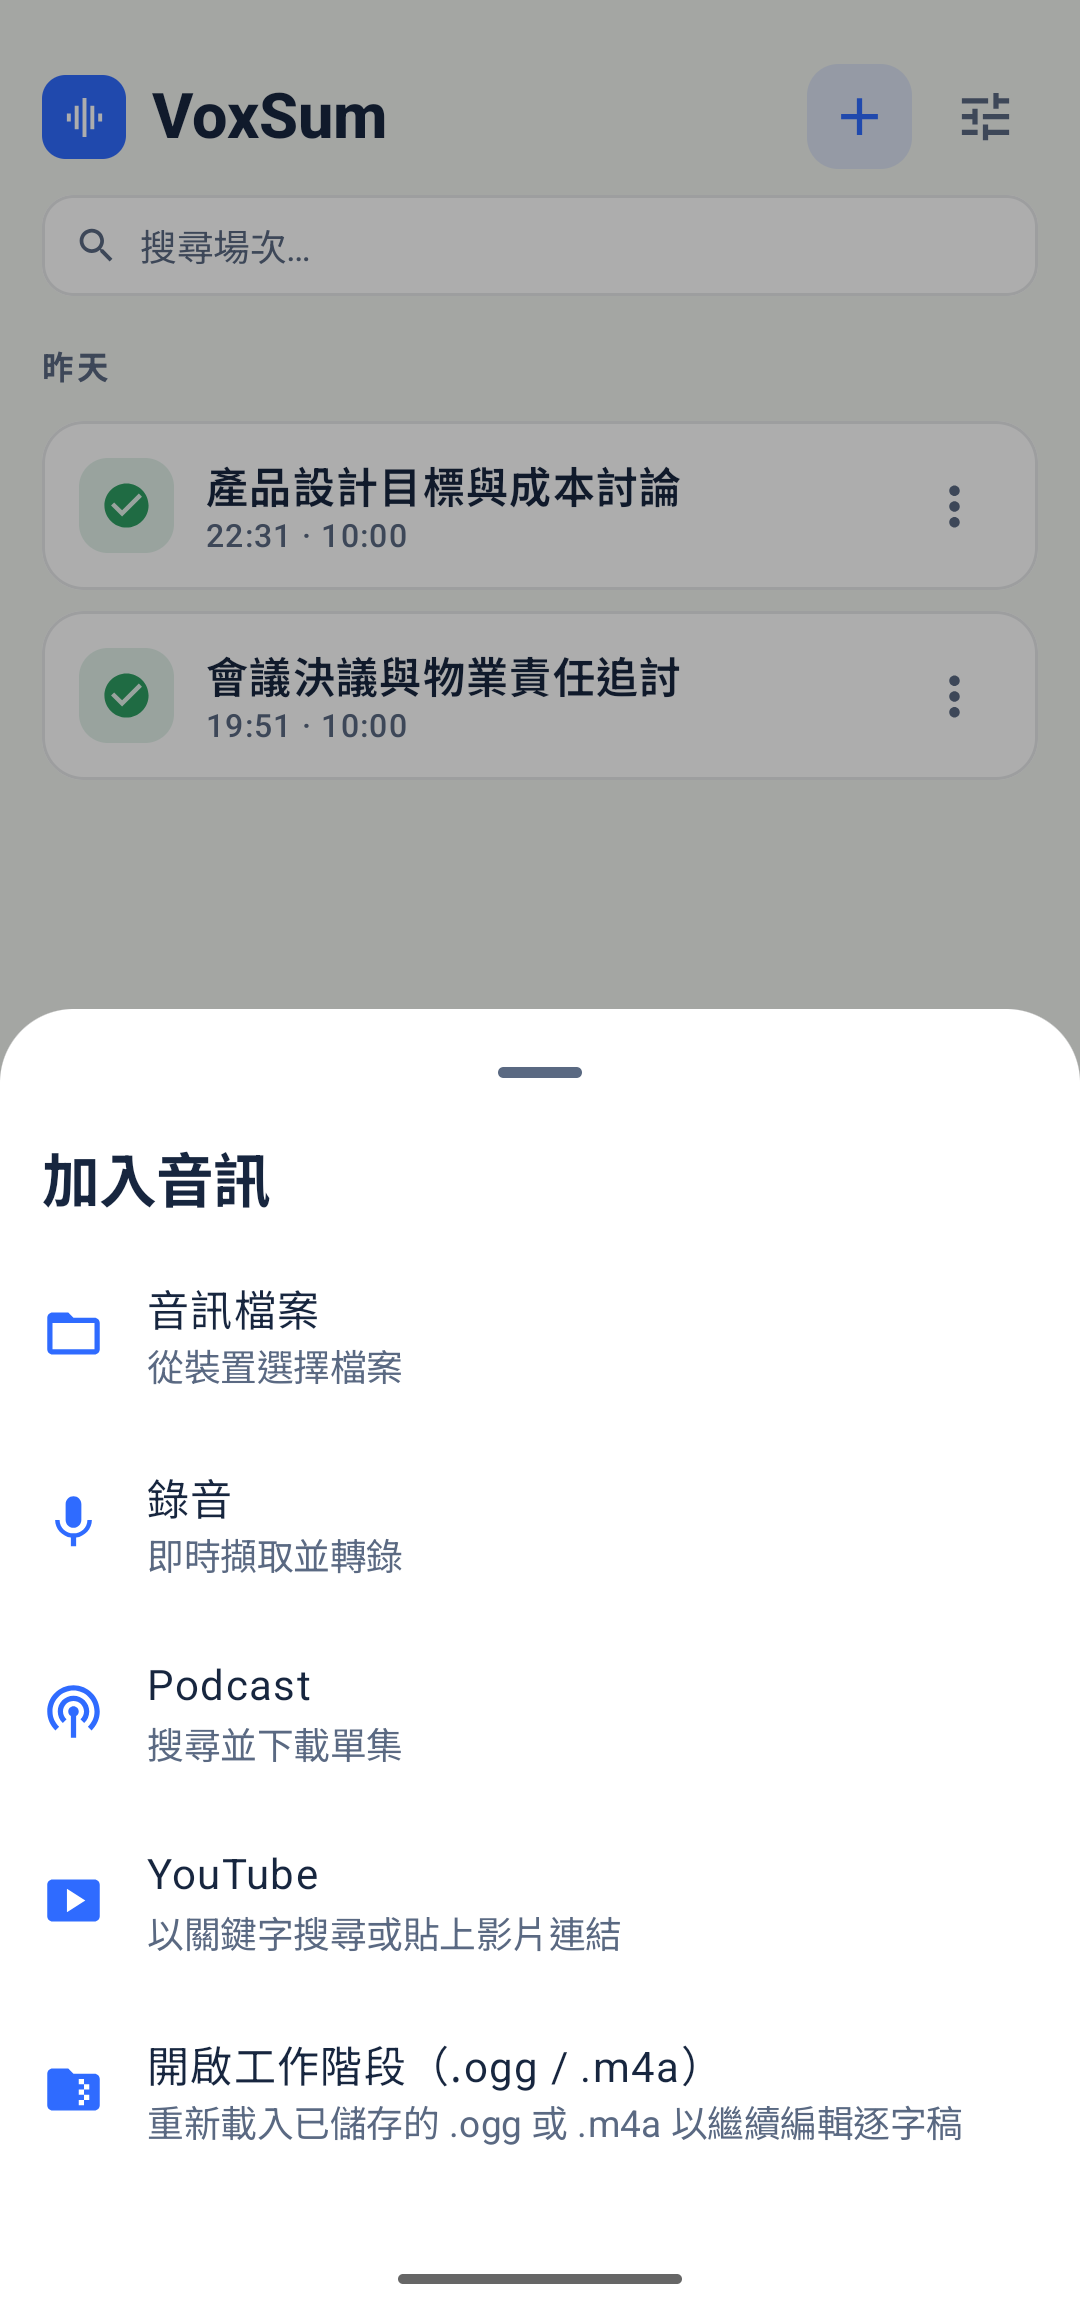
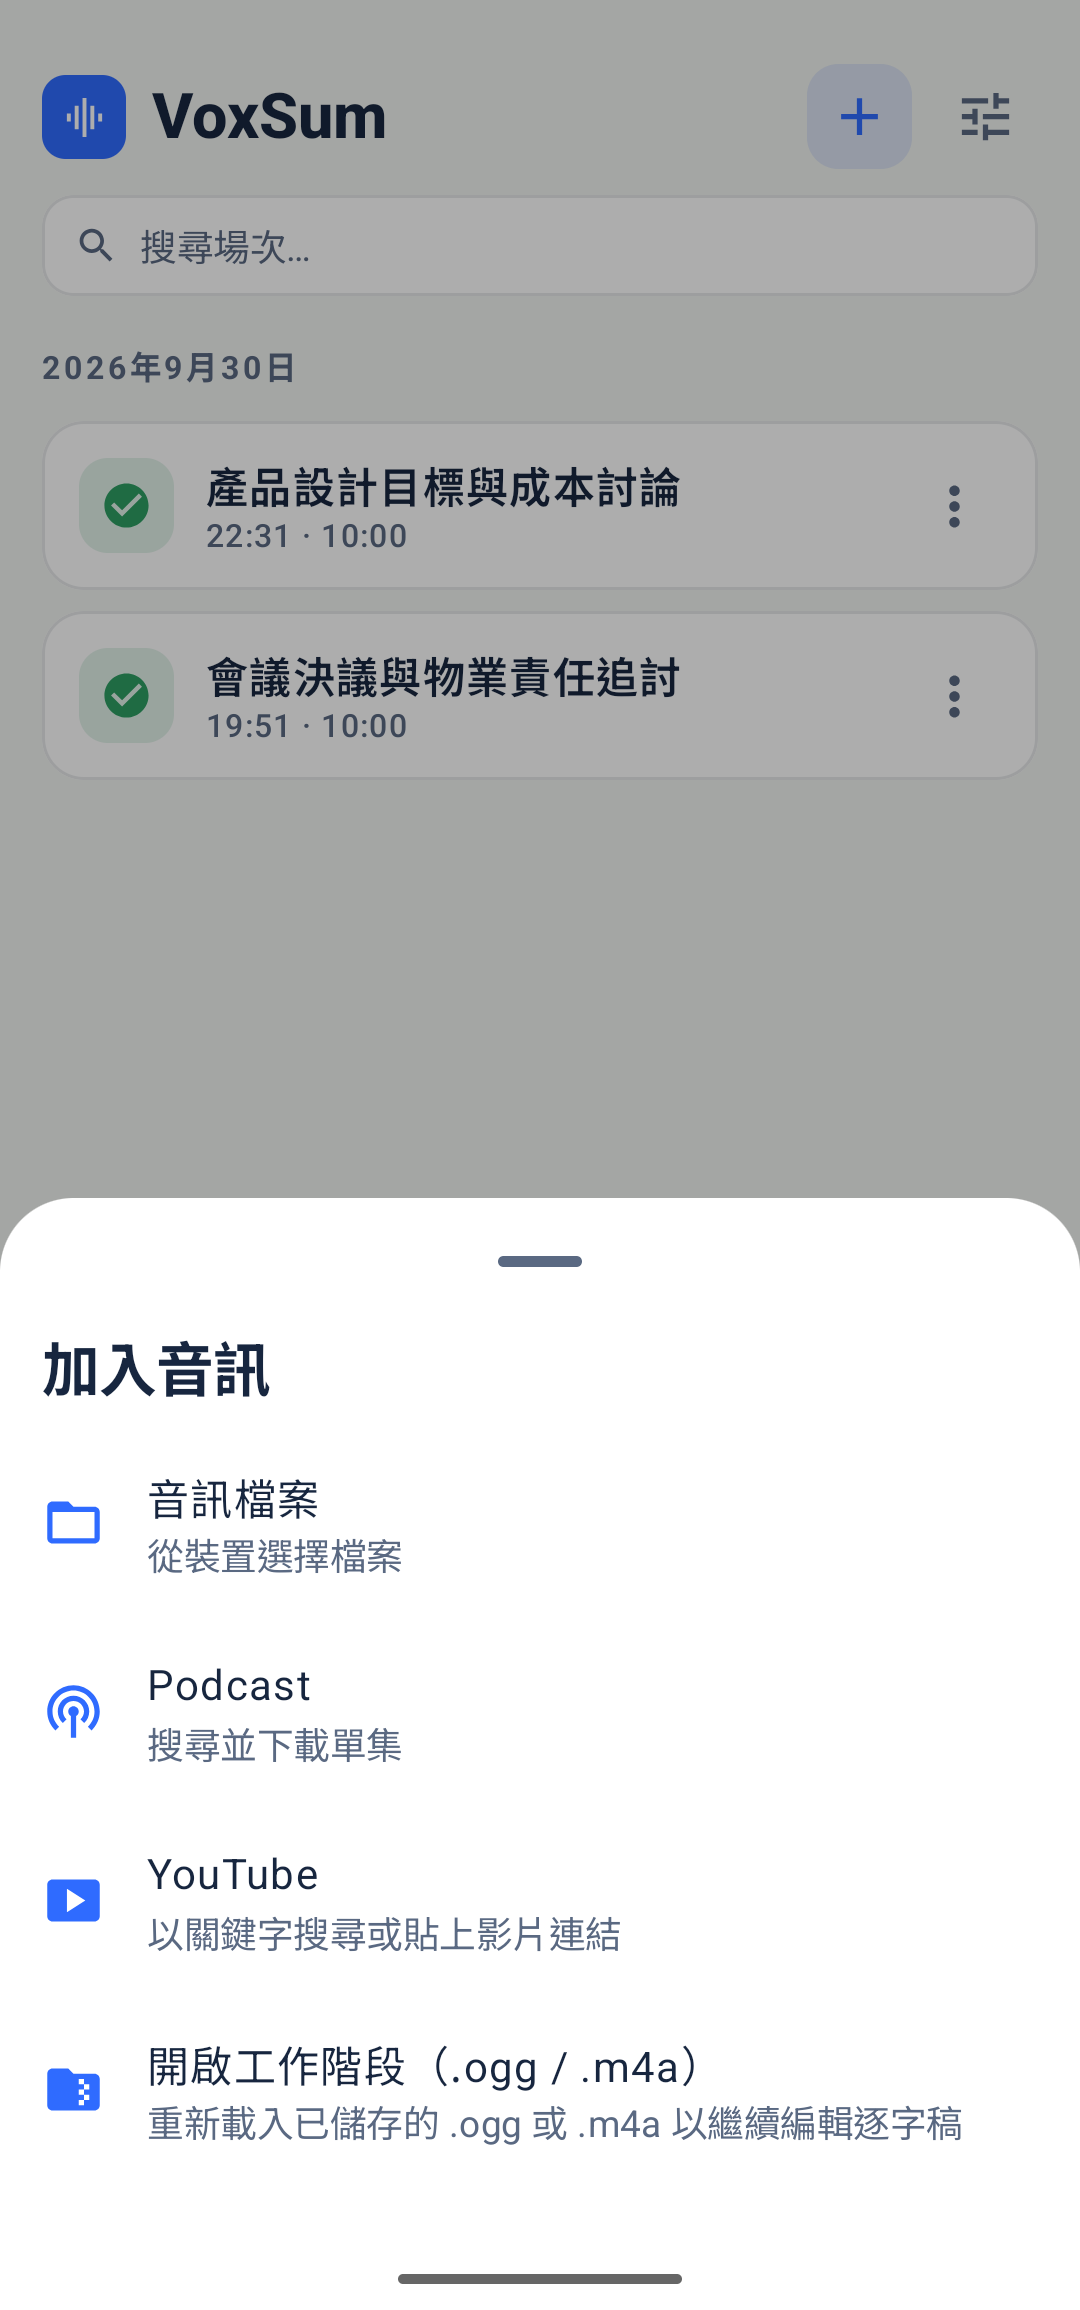
docs: README usage follows the meeting: record → agent → summary → transcript → export → reprocess → settings, imports last as the non-live case; reshoot the import sheet without Record
Claude-Session: https://claude.ai/code/session_01NQVZs7ju6UZUEeaeEiKgfe

diff --git a/README.md b/README.md
@@ -32,7 +32,7 @@
 
 <p align="center"><img src="docs/screenshots/qs-capture.png" width="280" alt="錄音室"></p>
 
-逐字稿即時出現；語者確定後，每句左側會有該語者的顏色與時間，尚未確定的句子為淺灰。上方的會議代理卡片顯示它正在聆聽或撰寫，以及距離下一次閱讀的進度。**下一場**存檔並立刻開始下一場，**停止並儲存**存檔後在背景處理。
+逐字稿即時出現；語者確定後，每句左側會有該語者的顏色與時間，尚未確定的句子為淺灰。上方的會議代理卡片顯示它正在聆聽或撰寫，以及距離下一次閱讀的進度。**下一場**存檔並立刻開始下一場，**停止並儲存**存檔後直接開啟這場會議，可看著代理完成閱讀與摘要；錄音時螢幕保持常亮。
 
 ### 會議代理
 
@@ -52,18 +52,6 @@
 
 依語者上色的完整逐字稿，場次標題顯示在頂端，點一下即可修改。點任一句即跳到該處播放，目前播放的句子會高亮；每句的 **⋮** 可修改文字或改派語者。
 
-### 重新處理
-
-<p align="center"><img src="docs/screenshots/reprocess.png" width="280" alt="重新處理選單"></p>
-
-場次右上 **⋮** 可**重新轉錄**（重跑語音辨識與語者分離）或**重新摘要**（只重跑會議代理，逐字稿保留；修改逐字稿後也會提示）。同一選單還有「匯出與分享」與「設定」。
-
-### 匯入
-
-<p align="center"><img src="docs/screenshots/import.png" width="280" alt="加入音訊"></p>
-
-首頁的 **＋** 可加入裝置上的音訊檔、現場錄音、Podcast 單集、YouTube 影片，或重新開啟先前儲存的 `.ogg` / `.m4a` 工作階段。也可從其他 App 把音訊分享給 VoxSum。
-
 ### 匯出
 
 <p align="center"><img src="docs/screenshots/export.png" width="280" alt="匯出"></p>
@@ -74,11 +62,23 @@
 - **文件**：PDF、Markdown、純文字。
 - **字幕**：SRT、VTT、LRC，含語者標籤。
 
+### 重新處理
+
+<p align="center"><img src="docs/screenshots/reprocess.png" width="280" alt="重新處理選單"></p>
+
+場次右上 **⋮** 可**重新轉錄**（重跑語音辨識與語者分離）或**重新摘要**（只重跑會議代理，逐字稿保留；修改逐字稿後也會提示）。同一選單還有「匯出與分享」與「設定」。
+
 ### 設定
 
 <p align="center"><img src="docs/screenshots/settings.png" width="280" alt="設定"></p>
 
 外觀（自動、淺色、深色、電子紙）、語言（跟隨系統、English、繁體中文、简体中文；介面與逐字稿、摘要、筆記的字體一起即時切換）、即時語者標註延遲（5–30 秒，越長越準確，不影響儲存的逐字稿）、模型用量與刪除、背景執行的電池設定。
+
+### 匯入（非即時音訊）
+
+<p align="center"><img src="docs/screenshots/import.png" width="280" alt="加入音訊"></p>
+
+也可處理事先錄好的音訊：首頁的 **＋** 可加入裝置上的音訊檔、Podcast 單集、YouTube 影片，或重新開啟先前儲存的 `.ogg` / `.m4a` 工作階段。也可從其他 App 把音訊分享給 VoxSum。
 
 ## 安裝
 
